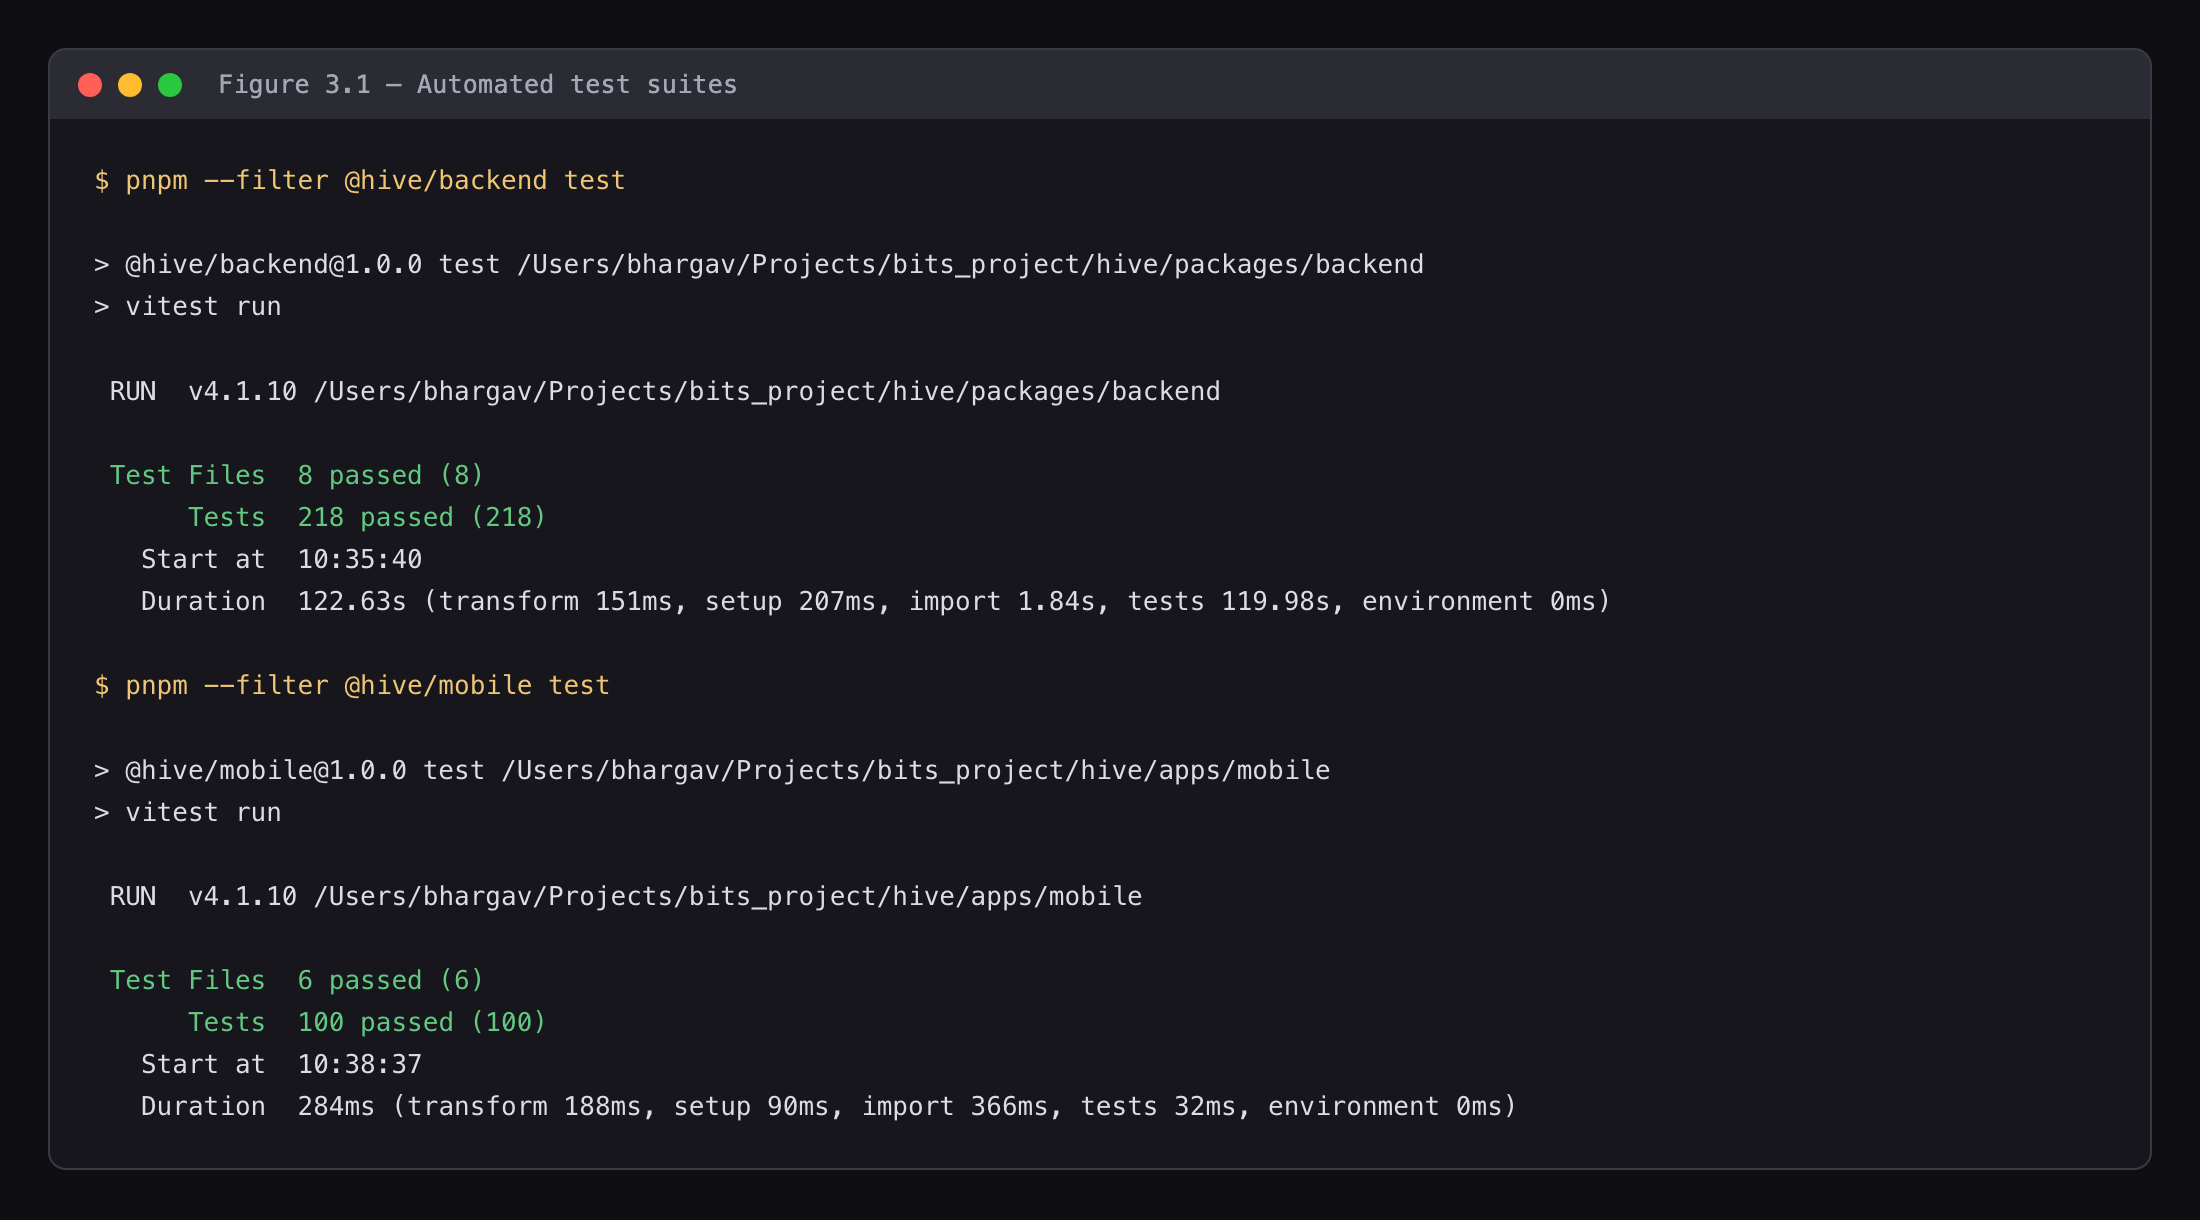
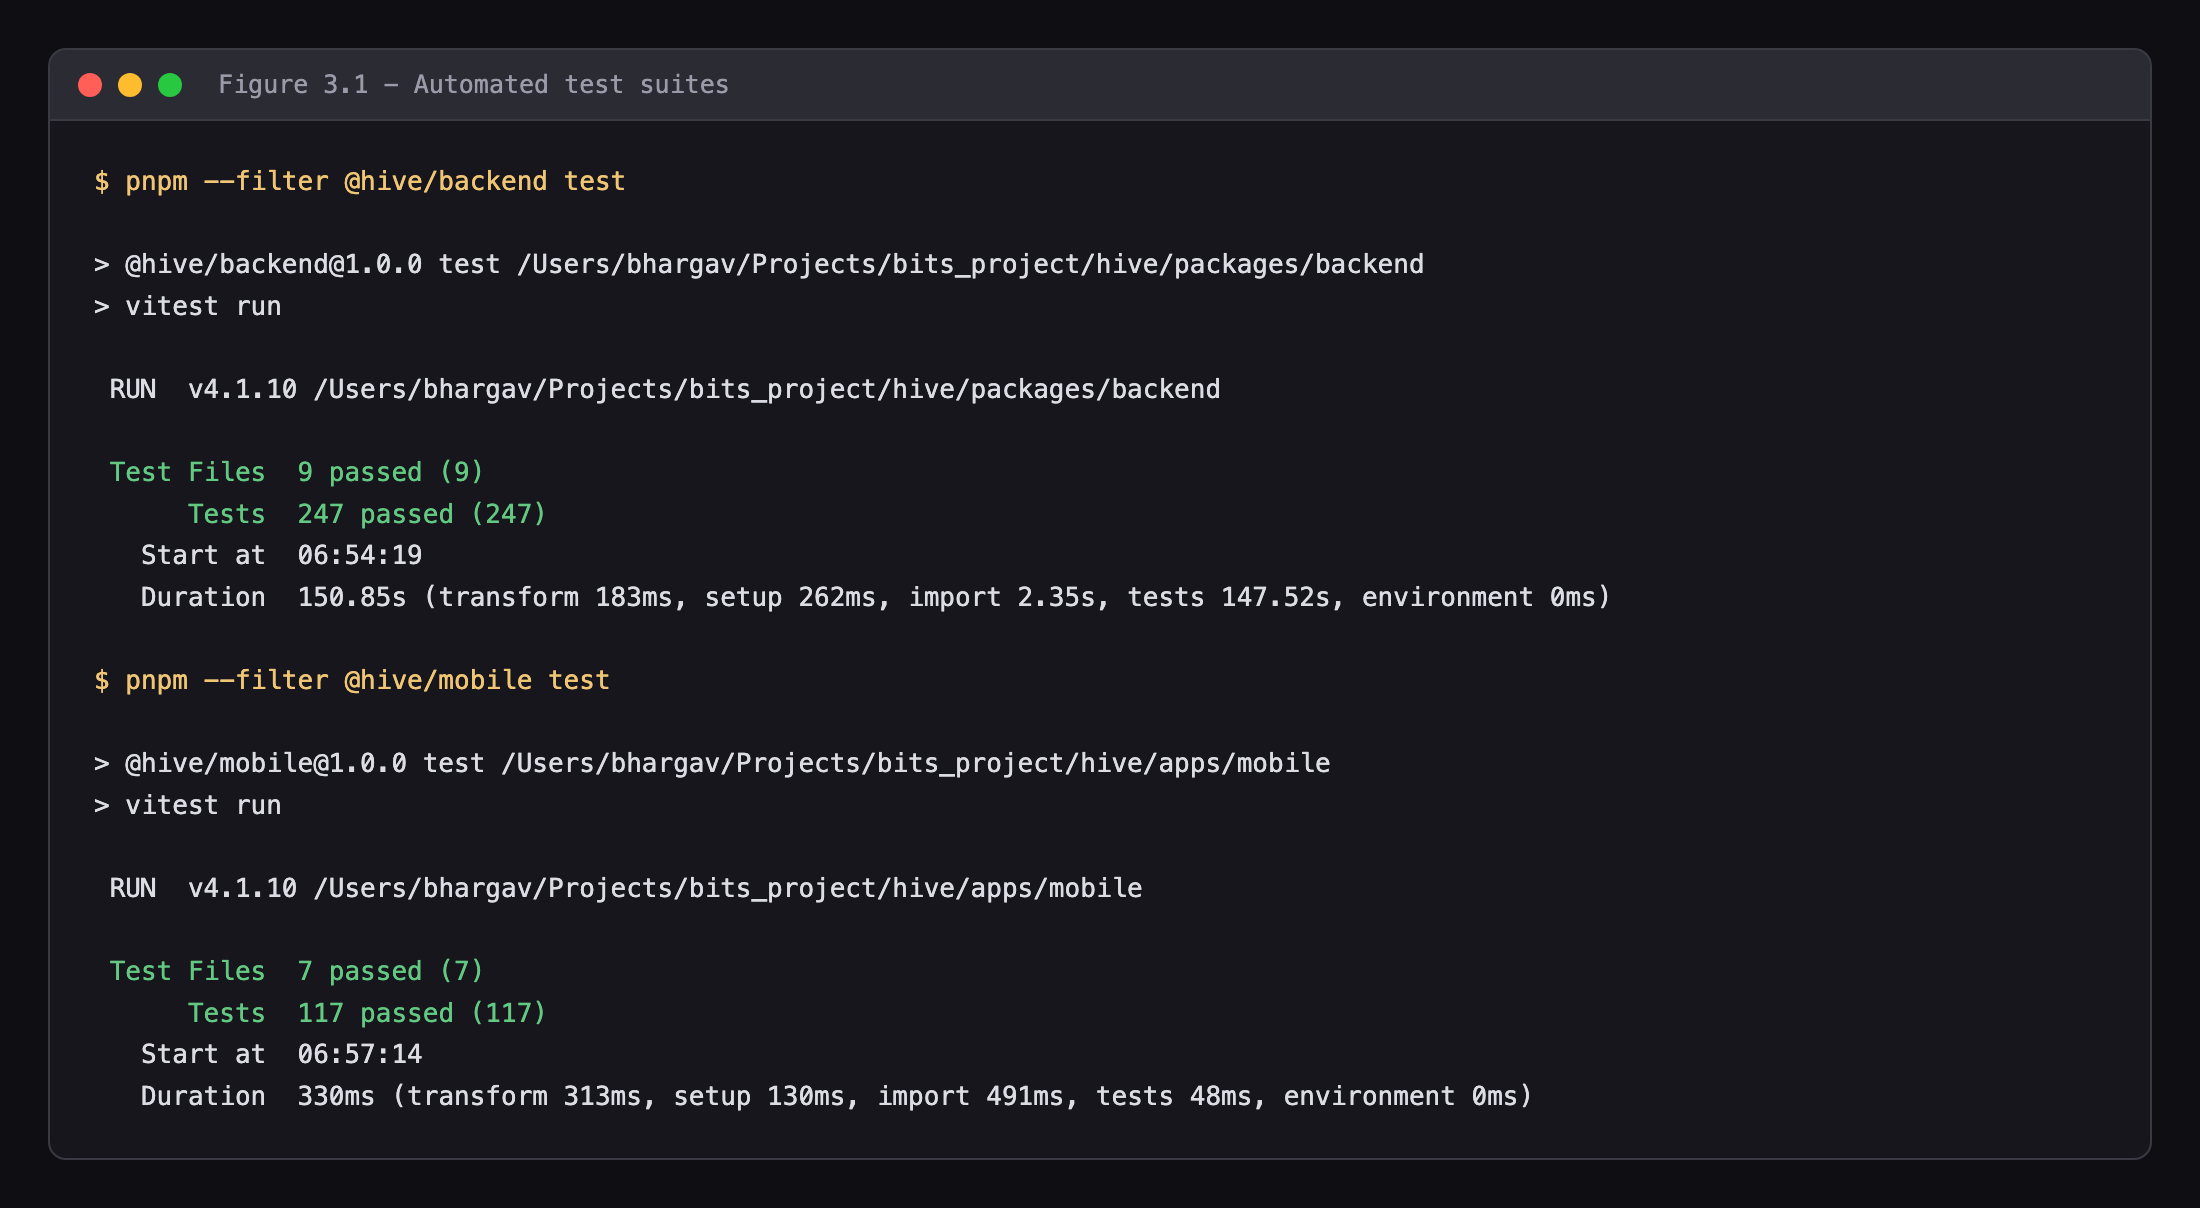
docs(capstone): re-run the evidence figures against the current build
The application screenshots were re-shot on 24 August but the evidence figures
were not, so four of them contradicted the prose beside them. That is the same
failure the mentor caught with the page numbers, and it is more findable than a
missing figure because the number is right there next to the sentence.

  3.1  showed 218 tests; the report says 247
  3.3  was a 218-suite sabotage result
  5.2  showed a CI run of 218
  2.1  labelled the API "40 endpoints"; the diary took it to 42

All re-run today:

  3.1  247 of 247 across 9 files in 150.85 s, and 117 of 117 mobile in 330 ms
  3.3  the ownership comparison deleted again: 5 failed, 242 passed of 247 -
       the same five targeted tests, nothing else moved
  5.2  the current CI run, 247 across 9 files in 499.19 s, test step blocking
  2.1  re-rendered from the corrected architecture source

3.3.1 now reconciles its own figures rather than leaving a reader to. The
report quotes 21.96 s from a local Supabase stack; Figure 3.1 shows 150.85 s
against the hosted project, because the local stack is not running here and the
hosted target is what a reader can reach. The seven-fold spread is the point of
that paragraph, so the figure illustrates it instead of contradicting it.

Every transcript is literal stdout with a byte-equality round-trip proving the
rendered figure matches it character for character.

3.2, 3.5 and 4.1 are unchanged: they test behaviour, not counts. 2.3 is
[…]

diff --git a/docs/capstone/REPORT.md b/docs/capstone/REPORT.md
@@ -545,7 +545,7 @@ This table covers the backend integration suite, which is the one that exercises
 ### 3.3.1 Automated suite
 247 of 247 passing across 9 files in 21.96 s, run on 20 August 2026 against the tree at 3b4145e, alongside 117 of 117 mobile unit tests in 429 ms. The static checks were re-run on the same tree: pnpm typecheck --force clean in both packages, pnpm lint 0 errors and 6 warnings - down from 27 earlier in August - and pnpm build:backend succeeding.  *(Figure 3.1)*
 
-The 21.96 s is not a speed-up in the code and must not be read as one. It is the test target moving from a hosted Supabase project to a local stack. The comparable earlier figures - 245 s and 122.63 s on 16 August, and 373.86 s in CI - were 218 tests against the remote hive-test project, where wall time is dominated by network latency to Postgres, GoTrue and Storage rather than by the code under test. CI still runs against hive-test, so the CI figure and the local figure measure different things and must not be quoted against each other.
+The 21.96 s is not a speed-up in the code and must not be read as one. It is the test target moving from a hosted Supabase project to a local stack. The comparable earlier figures - 245 s and 122.63 s on 16 August, and 373.86 s in CI - were 218 tests against the remote hive-test project, where wall time is dominated by network latency to Postgres, GoTrue and Storage rather than by the code under test. CI still runs against hive-test, so the CI figure and the local figure measure different things and must not be quoted against each other. Figure 3.1 shows a re-run on 25 August against the hosted project - the same 247 tests across 9 files, passing, in 150.85 s, alongside 117 mobile unit tests in 330 ms. It is reproduced against the hosted target rather than the local stack because that is what a reader can reach; the seven-fold spread between the two is the point of this paragraph, not a discrepancy.
 
 **Table 3.3 - Runtime functional verification**
 
@@ -606,7 +606,7 @@ A passing suite proves nothing until it has been made to fail deliberately. One 
 
 Result, when the exercise was first performed: exactly the three same-school ownership tests failed, as intended.
 
-Repeated on 16 August, it now fails five - the guard has gained coverage since. 218 tests \| 5 failed \| 213 passed:
+Repeated on 25 August against the current suite it fails five, the guard having gained coverage since: 247 tests \| 5 failed \| 242 passed. Nothing else moved, which is the property that matters - the sabotage is precise, not merely destructive:
 
 | **File** | **Test** | **Expected** | **Got** |
 |----|----|----|----|
